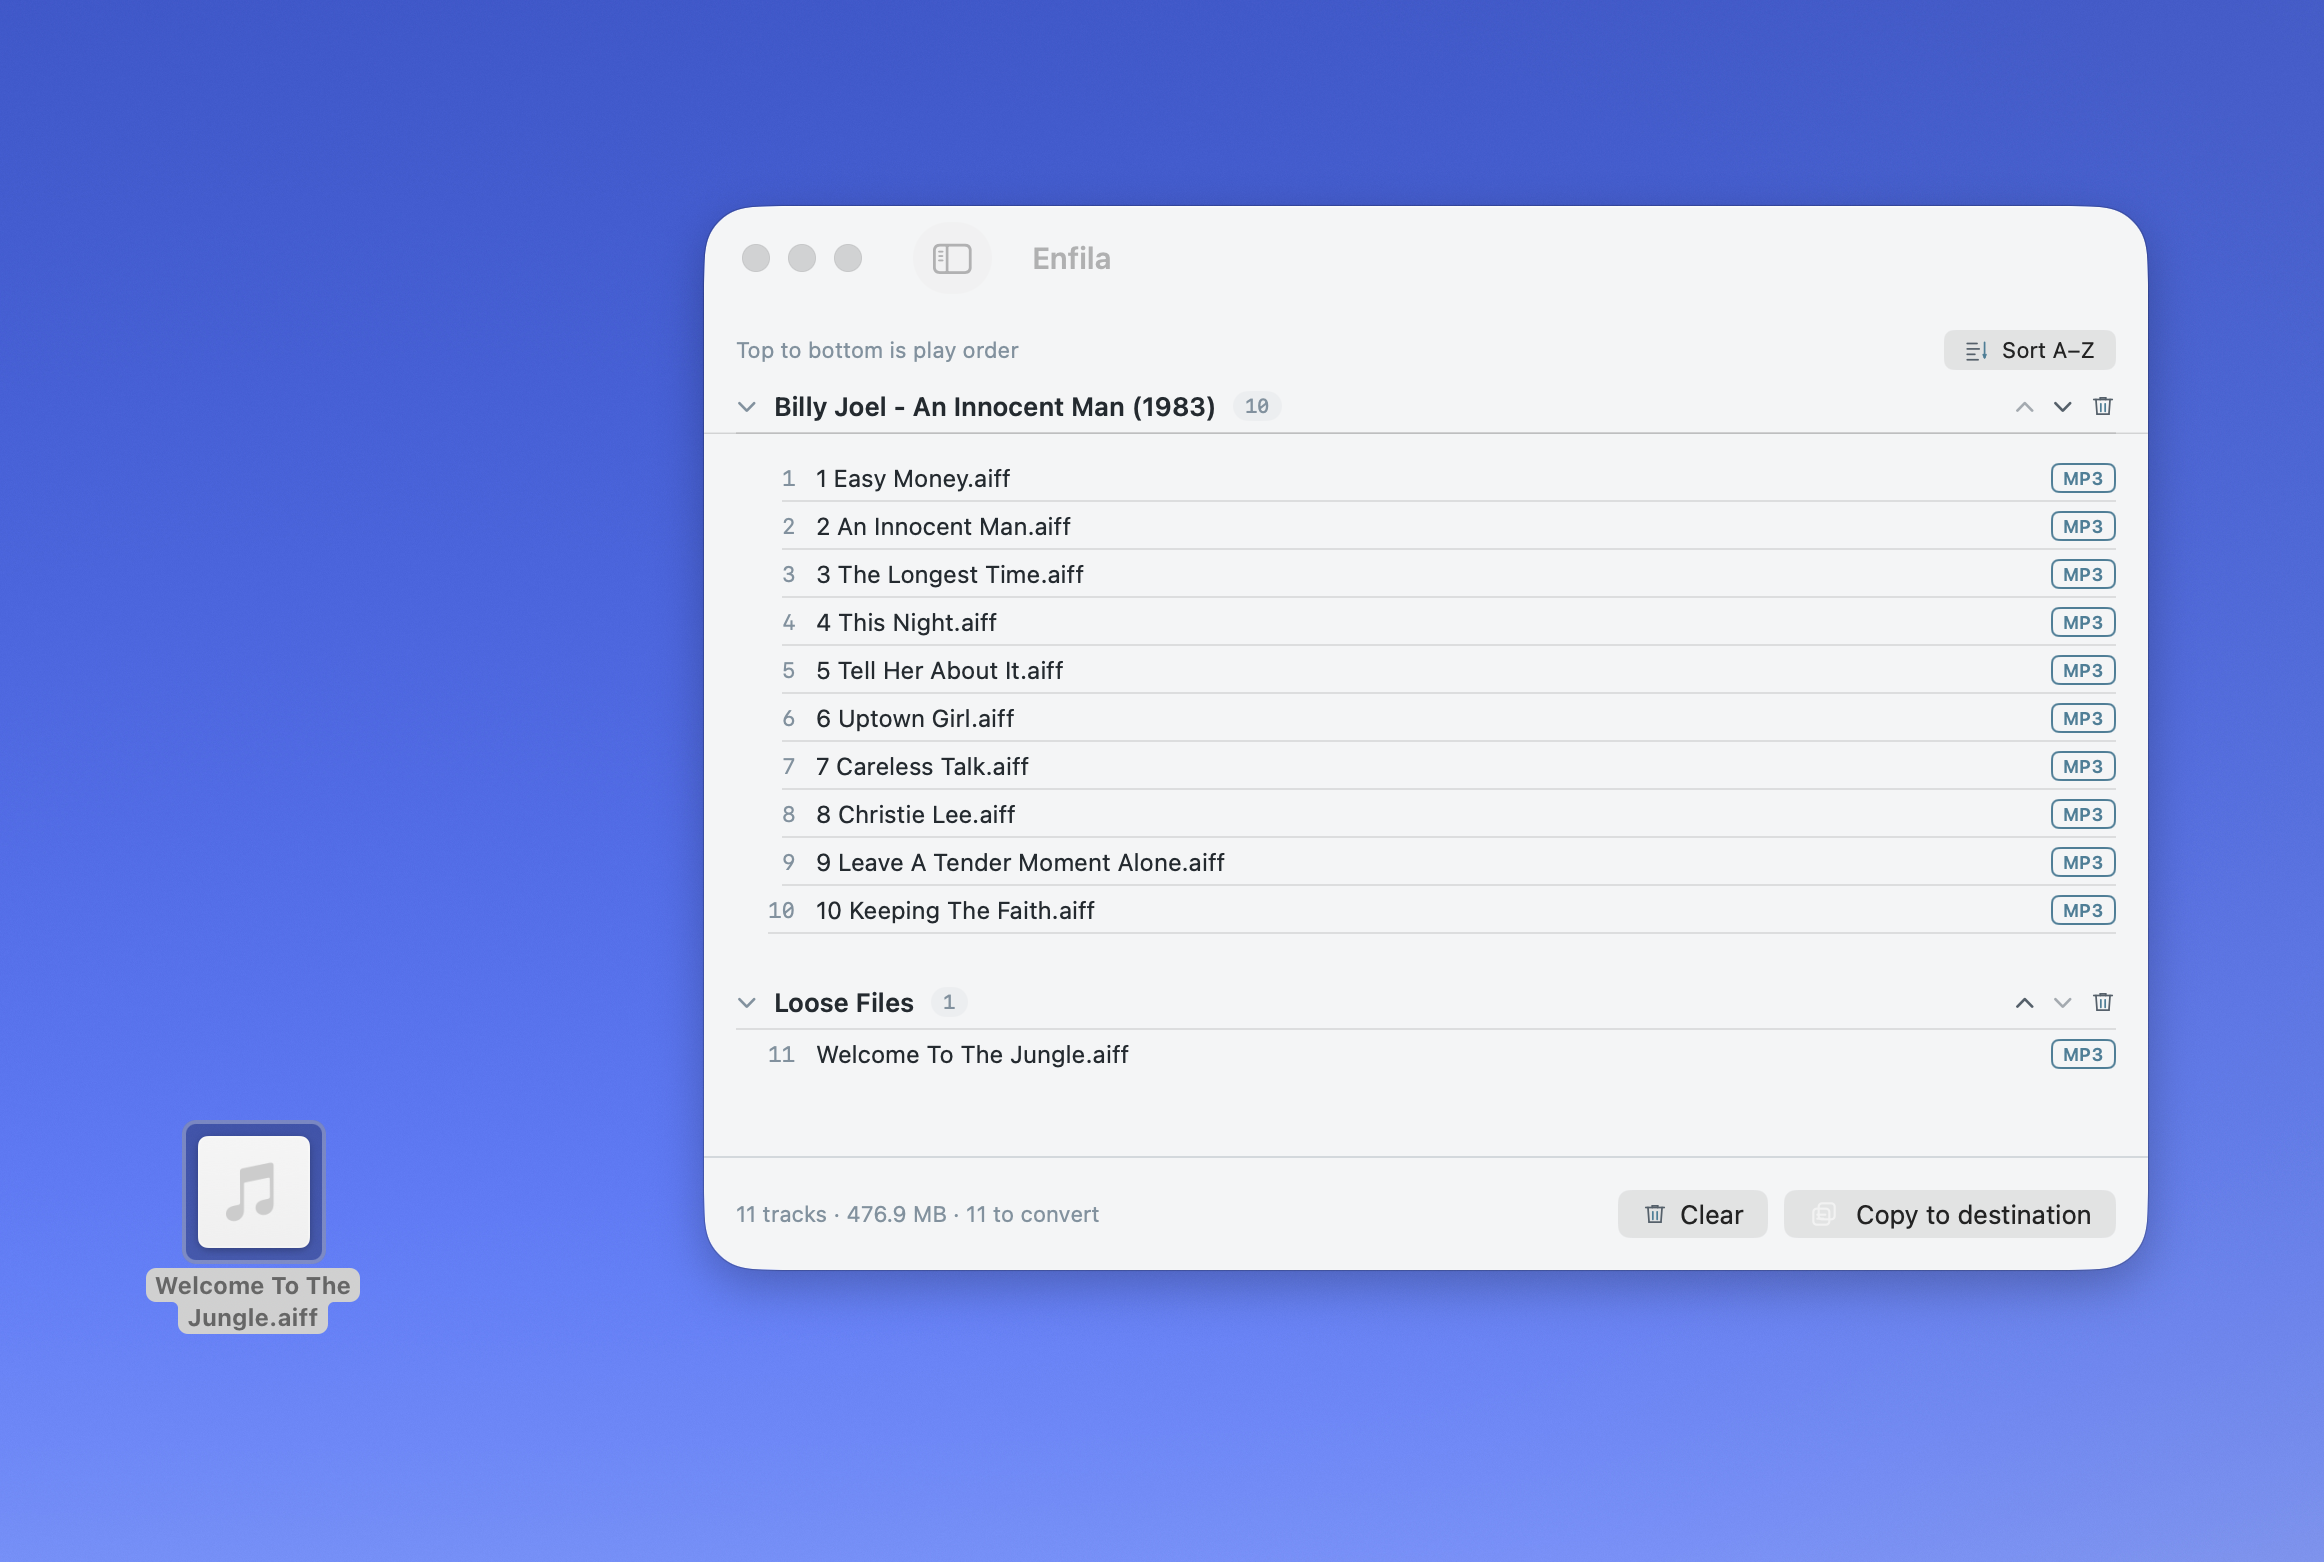
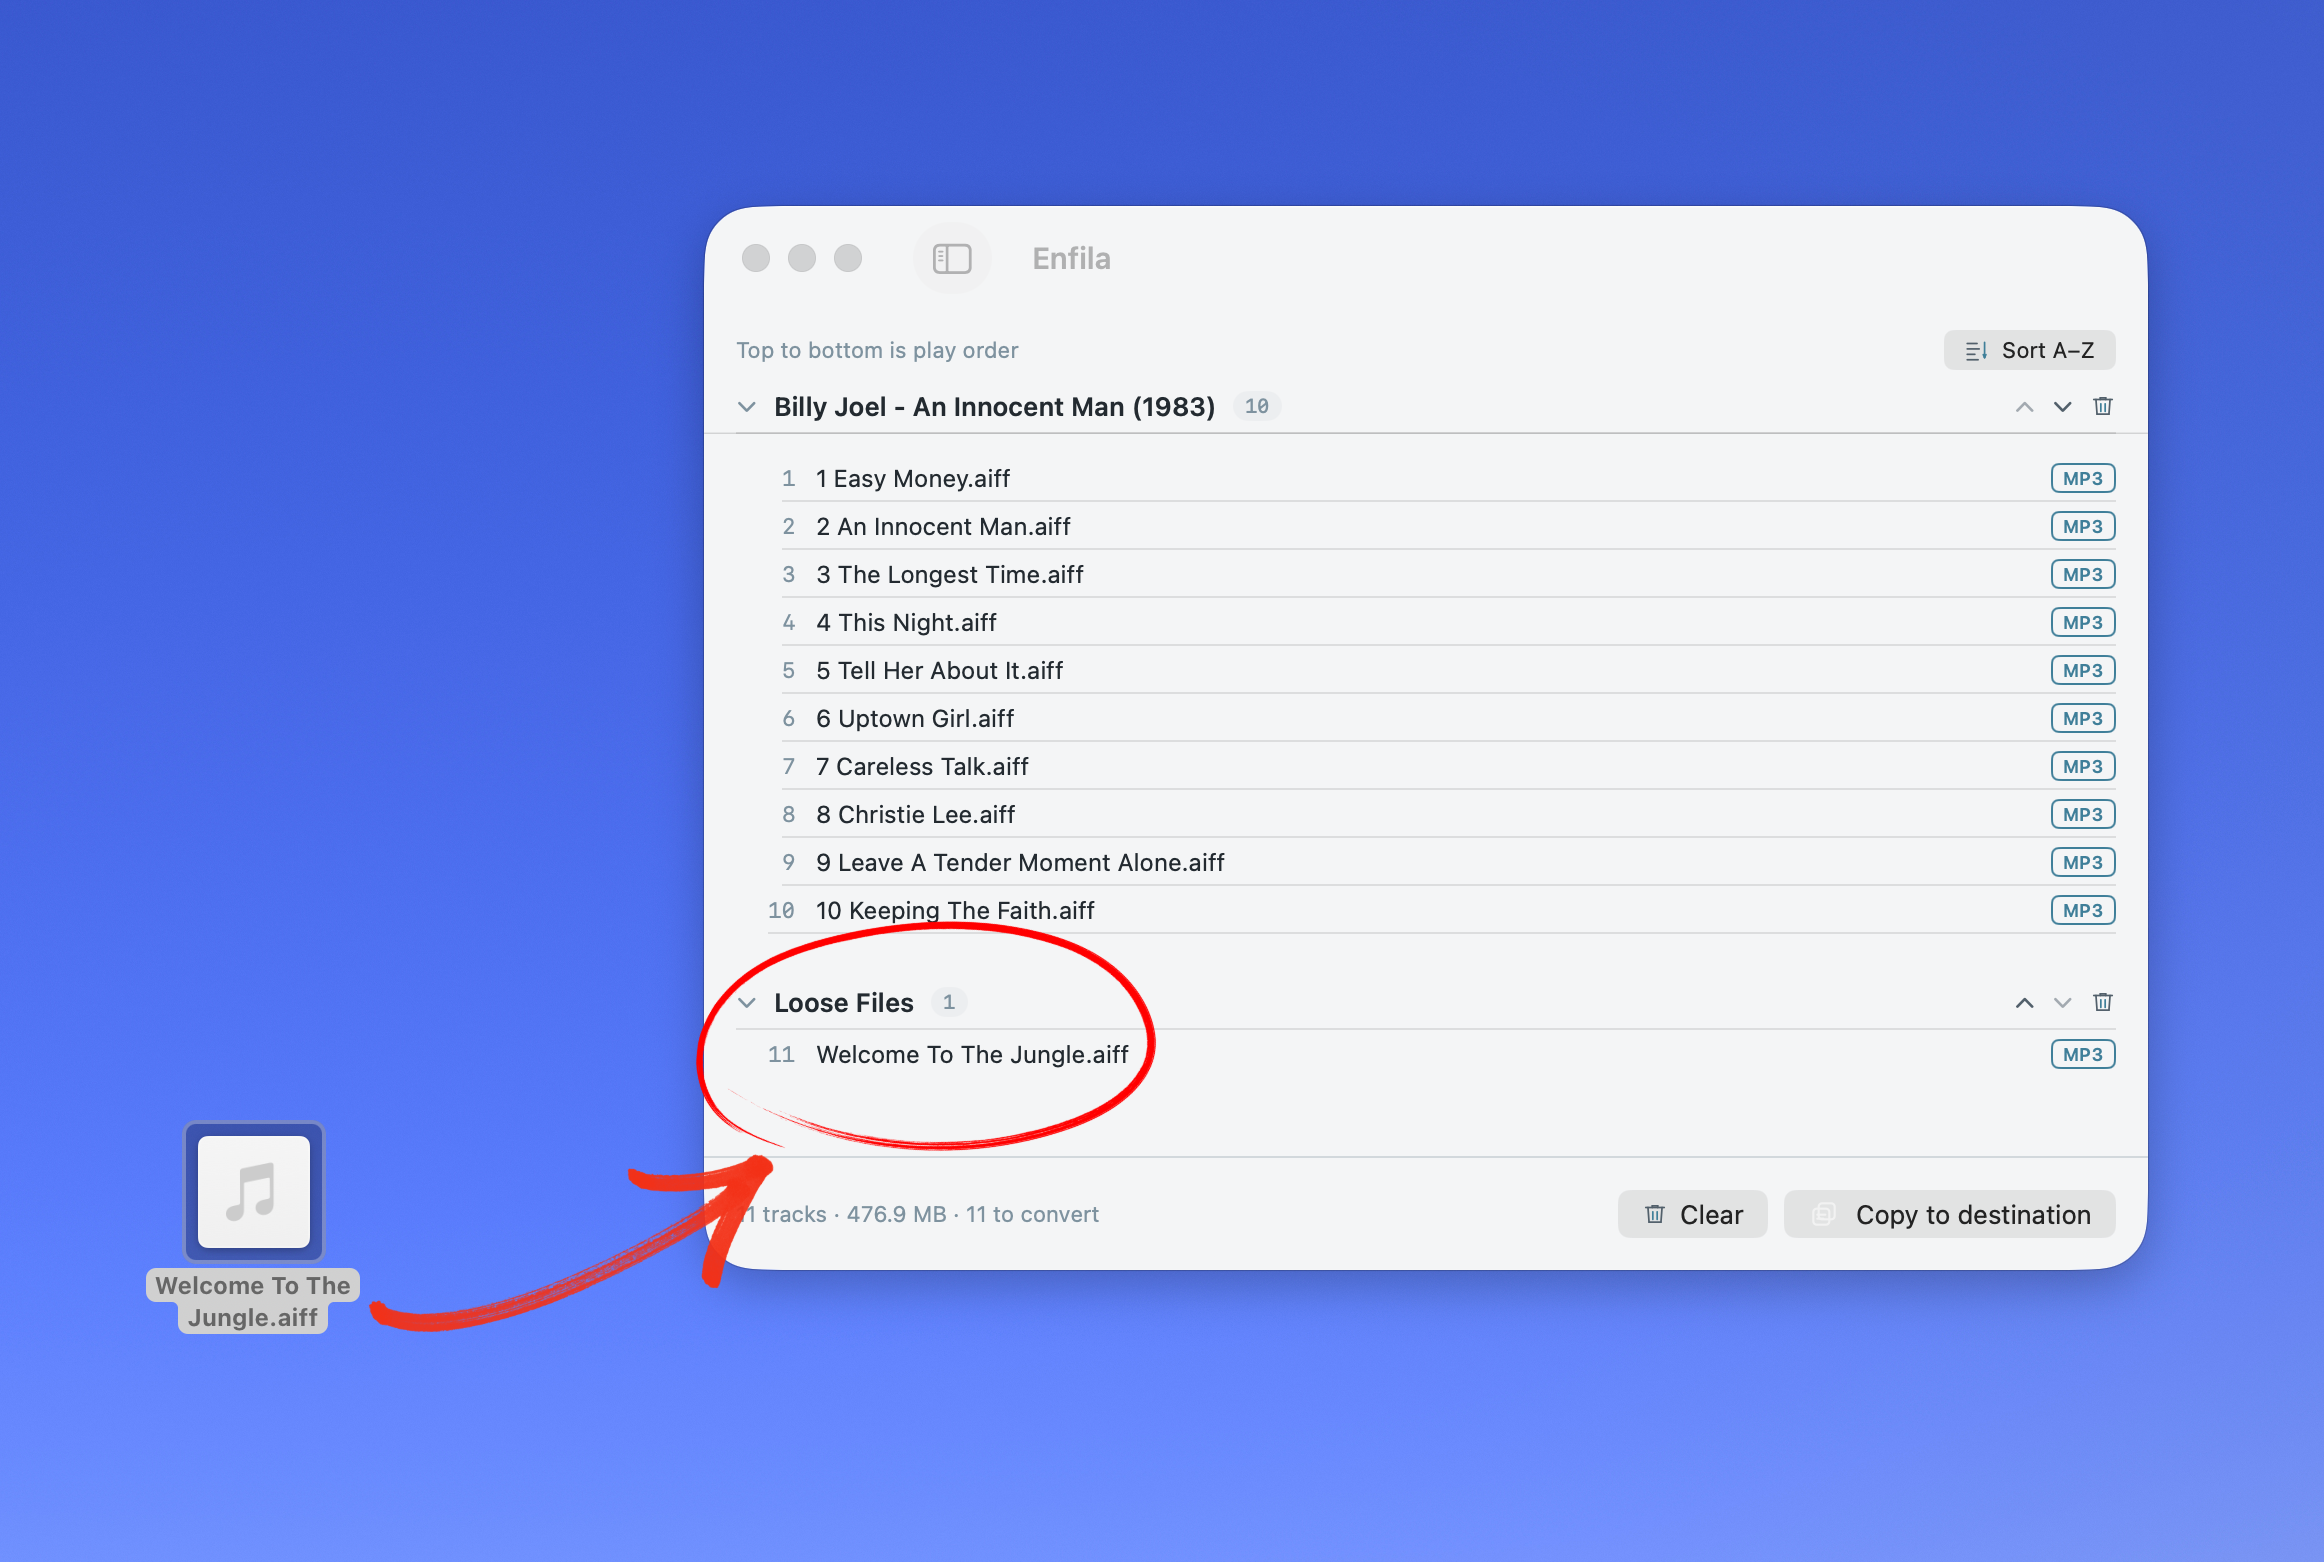
Pre-launch site updates
- Swap drag screenshot for annotated version
- Add real contact form (FormSubmit); separate Notify-me capture
- Switch hero/CTA to Notify-me email capture pre-launch
- Add appcast.xml (Sparkle feed, served at /appcast.xml)

diff --git a/index.html b/index.html
@@ -57,15 +57,18 @@
     <h1>Your music plays in the order you meant.</h1>
     <p class="hero-sub">Most players read files in the order they were copied — not the order you want. Enfila copies them in the right one.</p>
 
-    <!-- BUY ROW — keep when shipping; remove when pre-launch. -->
+    <!-- BUY ROW — restore when the app is live; swap back in for EMAIL CAPTURE below.
     <div class="buy-row">
       <a href="https://enfila.lemonsqueezy.com/checkout/buy/a7d39575-3db5-4ff4-99bb-8c974c9e13f9" class="buy-btn">Buy Enfila</a>
       <span class="buy-note"><strong class="buy-price">$9.99</strong> — one-time purchase. Mac only.</span>
     </div>
-    <!-- /BUY ROW -->
+    -->
 
-    <!-- EMAIL CAPTURE — keep when pre-launch; remove when shipping. -->
-    <form class="email-form" action="FORM_ENDPOINT" method="post">
+    <!-- EMAIL CAPTURE — pre-launch; swap for BUY ROW above when shipping. -->
+    <form class="email-form" action="https://formsubmit.co/notify@enfila.app" method="post">
+      <input type="hidden" name="_subject" value="Enfila — notify me at launch">
+      <input type="hidden" name="_captcha" value="false">
+      <input type="text" name="_honey" style="display:none">
       <input type="email" name="email" placeholder="you@example.com" aria-label="Email address" required>
       <button type="submit">Notify me</button>
     </form>
@@ -116,10 +119,7 @@
     </ol>
   </div>
   <div class="feature-shot">
-    <picture>
-      <source srcset="img/drag-dark.png" media="(prefers-color-scheme: dark)">
-      <img src="img/drag-light.png" alt="Dragging a track onto the Enfila window to stage it." loading="lazy">
-    </picture>
+    <img src="img/drag-light.png" alt="Dragging a loose track onto the Enfila window — it lands in the queue ready to copy." loading="lazy">
   </div>
 </section>
 
@@ -169,10 +169,21 @@
     <div class="section-label">Get Enfila</div>
     <h2>Load it once, in order.</h2>
     <p class="close-caption">A one-time purchase. Mac only. Notarized by Apple, runs entirely offline.</p>
+    <!-- BUY ROW — restore when the app is live; swap back in for EMAIL CAPTURE below.
     <div class="buy-row">
       <a href="https://enfila.lemonsqueezy.com/checkout/buy/a7d39575-3db5-4ff4-99bb-8c974c9e13f9" class="buy-btn">Buy Enfila</a>
       <span class="buy-note"><strong class="buy-price">$9.99</strong> — one-time.</span>
     </div>
+    -->
+    <!-- EMAIL CAPTURE — pre-launch; swap for BUY ROW above when shipping. -->
+    <form class="email-form" action="https://formsubmit.co/notify@enfila.app" method="post">
+      <input type="hidden" name="_subject" value="Enfila — notify me at launch">
+      <input type="hidden" name="_captcha" value="false">
+      <input type="text" name="_honey" style="display:none">
+      <input type="email" name="email" placeholder="you@example.com" aria-label="Email address" required>
+      <button type="submit">Notify me</button>
+    </form>
+    <!-- /EMAIL CAPTURE -->
   </div>
   <div class="feature-shot">
     <picture>

diff --git a/contact.html b/contact.html
@@ -36,8 +36,39 @@
   <h1>Contact</h1>
   <p class="updated">We read every message.</p>
 
-  <p>Questions, bug reports, license help, or feature ideas — email us:</p>
-  <p><a href="mailto:Hello@enfila.app">Hello@enfila.app</a></p>
+  <p>Questions, bug reports, license help, or feature ideas — send a note below, or email us directly at <a href="mailto:Hello@enfila.app">Hello@enfila.app</a>.</p>
+
+  <form class="contact-form" action="https://formsubmit.co/Hello@enfila.app" method="POST">
+    <!-- FormSubmit config: disables captcha redirect, sets reply subject. -->
+    <input type="hidden" name="_subject" value="New message from enfila.app">
+    <input type="hidden" name="_template" value="table">
+    <input type="hidden" name="_captcha" value="false">
+    <input type="text" name="_honey" style="display:none">
+
+    <div class="field">
+      <label for="cf-name">Name</label>
+      <input id="cf-name" type="text" name="name" autocomplete="name" required>
+    </div>
+    <div class="field">
+      <label for="cf-email">Email</label>
+      <input id="cf-email" type="email" name="email" autocomplete="email" placeholder="you@example.com" required>
+    </div>
+    <div class="field">
+      <label for="cf-topic">Topic</label>
+      <select id="cf-topic" name="topic">
+        <option>Support</option>
+        <option>License / activation help</option>
+        <option>A device plays out of order</option>
+        <option>Feature idea</option>
+        <option>Something else</option>
+      </select>
+    </div>
+    <div class="field">
+      <label for="cf-message">Message</label>
+      <textarea id="cf-message" name="message" rows="6" required></textarea>
+    </div>
+    <button type="submit">Send message</button>
+  </form>
 
   <h2>Before you write</h2>
   <ul>

diff --git a/css/style.css b/css/style.css
@@ -141,6 +141,34 @@ nav {
 .email-form button:hover { background: var(--accent-hover); }
 .form-note { font-size: 11px; color: var(--muted); margin-top: -6px; margin-bottom: 8px; }
 
+/* Contact form (multi-field) */
+.contact-form { max-width: 480px; margin-top: 1.75rem; }
+.contact-form .field { display: flex; flex-direction: column; gap: 6px; margin-bottom: 16px; }
+.contact-form label {
+  font-size: 11px; font-weight: 600; letter-spacing: 0.16em;
+  text-transform: uppercase; color: var(--muted);
+}
+.contact-form input,
+.contact-form select,
+.contact-form textarea {
+  width: 100%; padding: 11px 14px; font: inherit; font-size: 15px;
+  background: var(--card); border: 1px solid var(--border);
+  border-radius: 8px; color: var(--text); outline: none;
+  transition: border-color 0.15s;
+}
+.contact-form textarea { resize: vertical; line-height: 1.6; }
+.contact-form input::placeholder { color: var(--muted); }
+.contact-form input:focus,
+.contact-form select:focus,
+.contact-form textarea:focus { border-color: var(--accent); }
+.contact-form button {
+  padding: 11px 22px; font-size: 14px; font-weight: 600;
+  background: var(--accent); color: var(--accent-ink);
+  border: none; border-radius: 8px; cursor: pointer;
+  transition: background 0.15s;
+}
+.contact-form button:hover { background: var(--accent-hover); }
+
 /* trust chips */
 .trust-row { display: flex; flex-wrap: wrap; gap: 8px 18px; margin-top: 4px; }
 .trust-chip { display: inline-flex; align-items: center; gap: 6px; font-size: 12px; font-weight: 500; color: var(--stroke); white-space: nowrap; }
